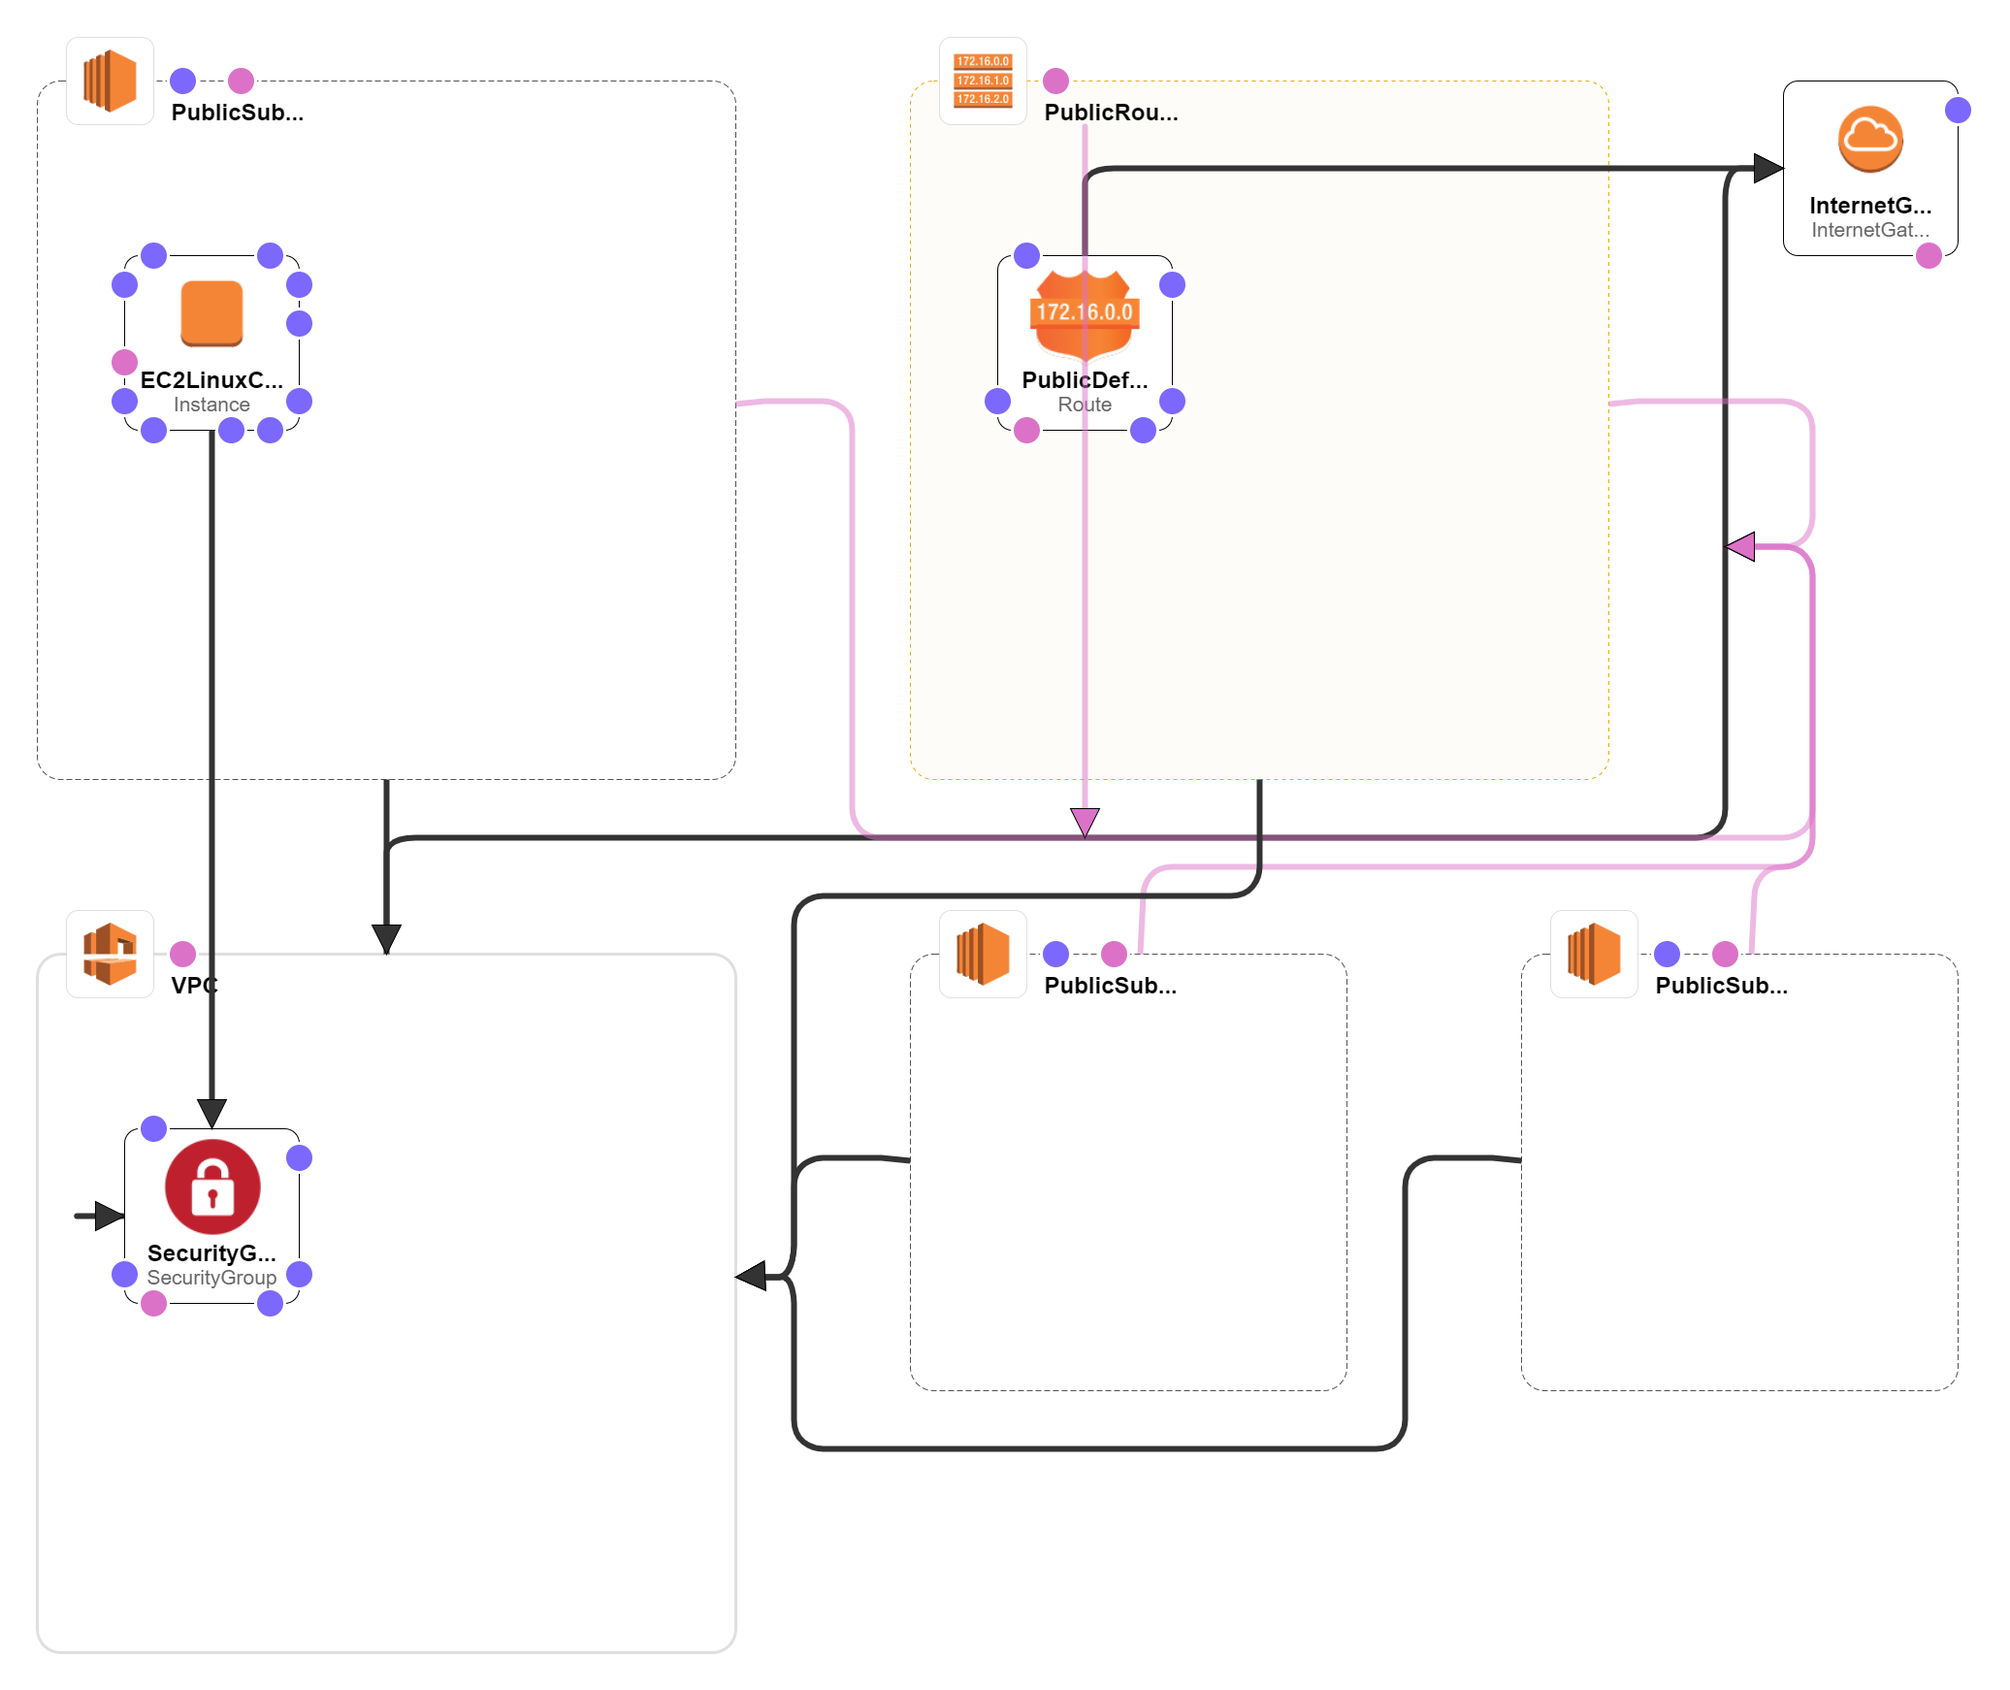
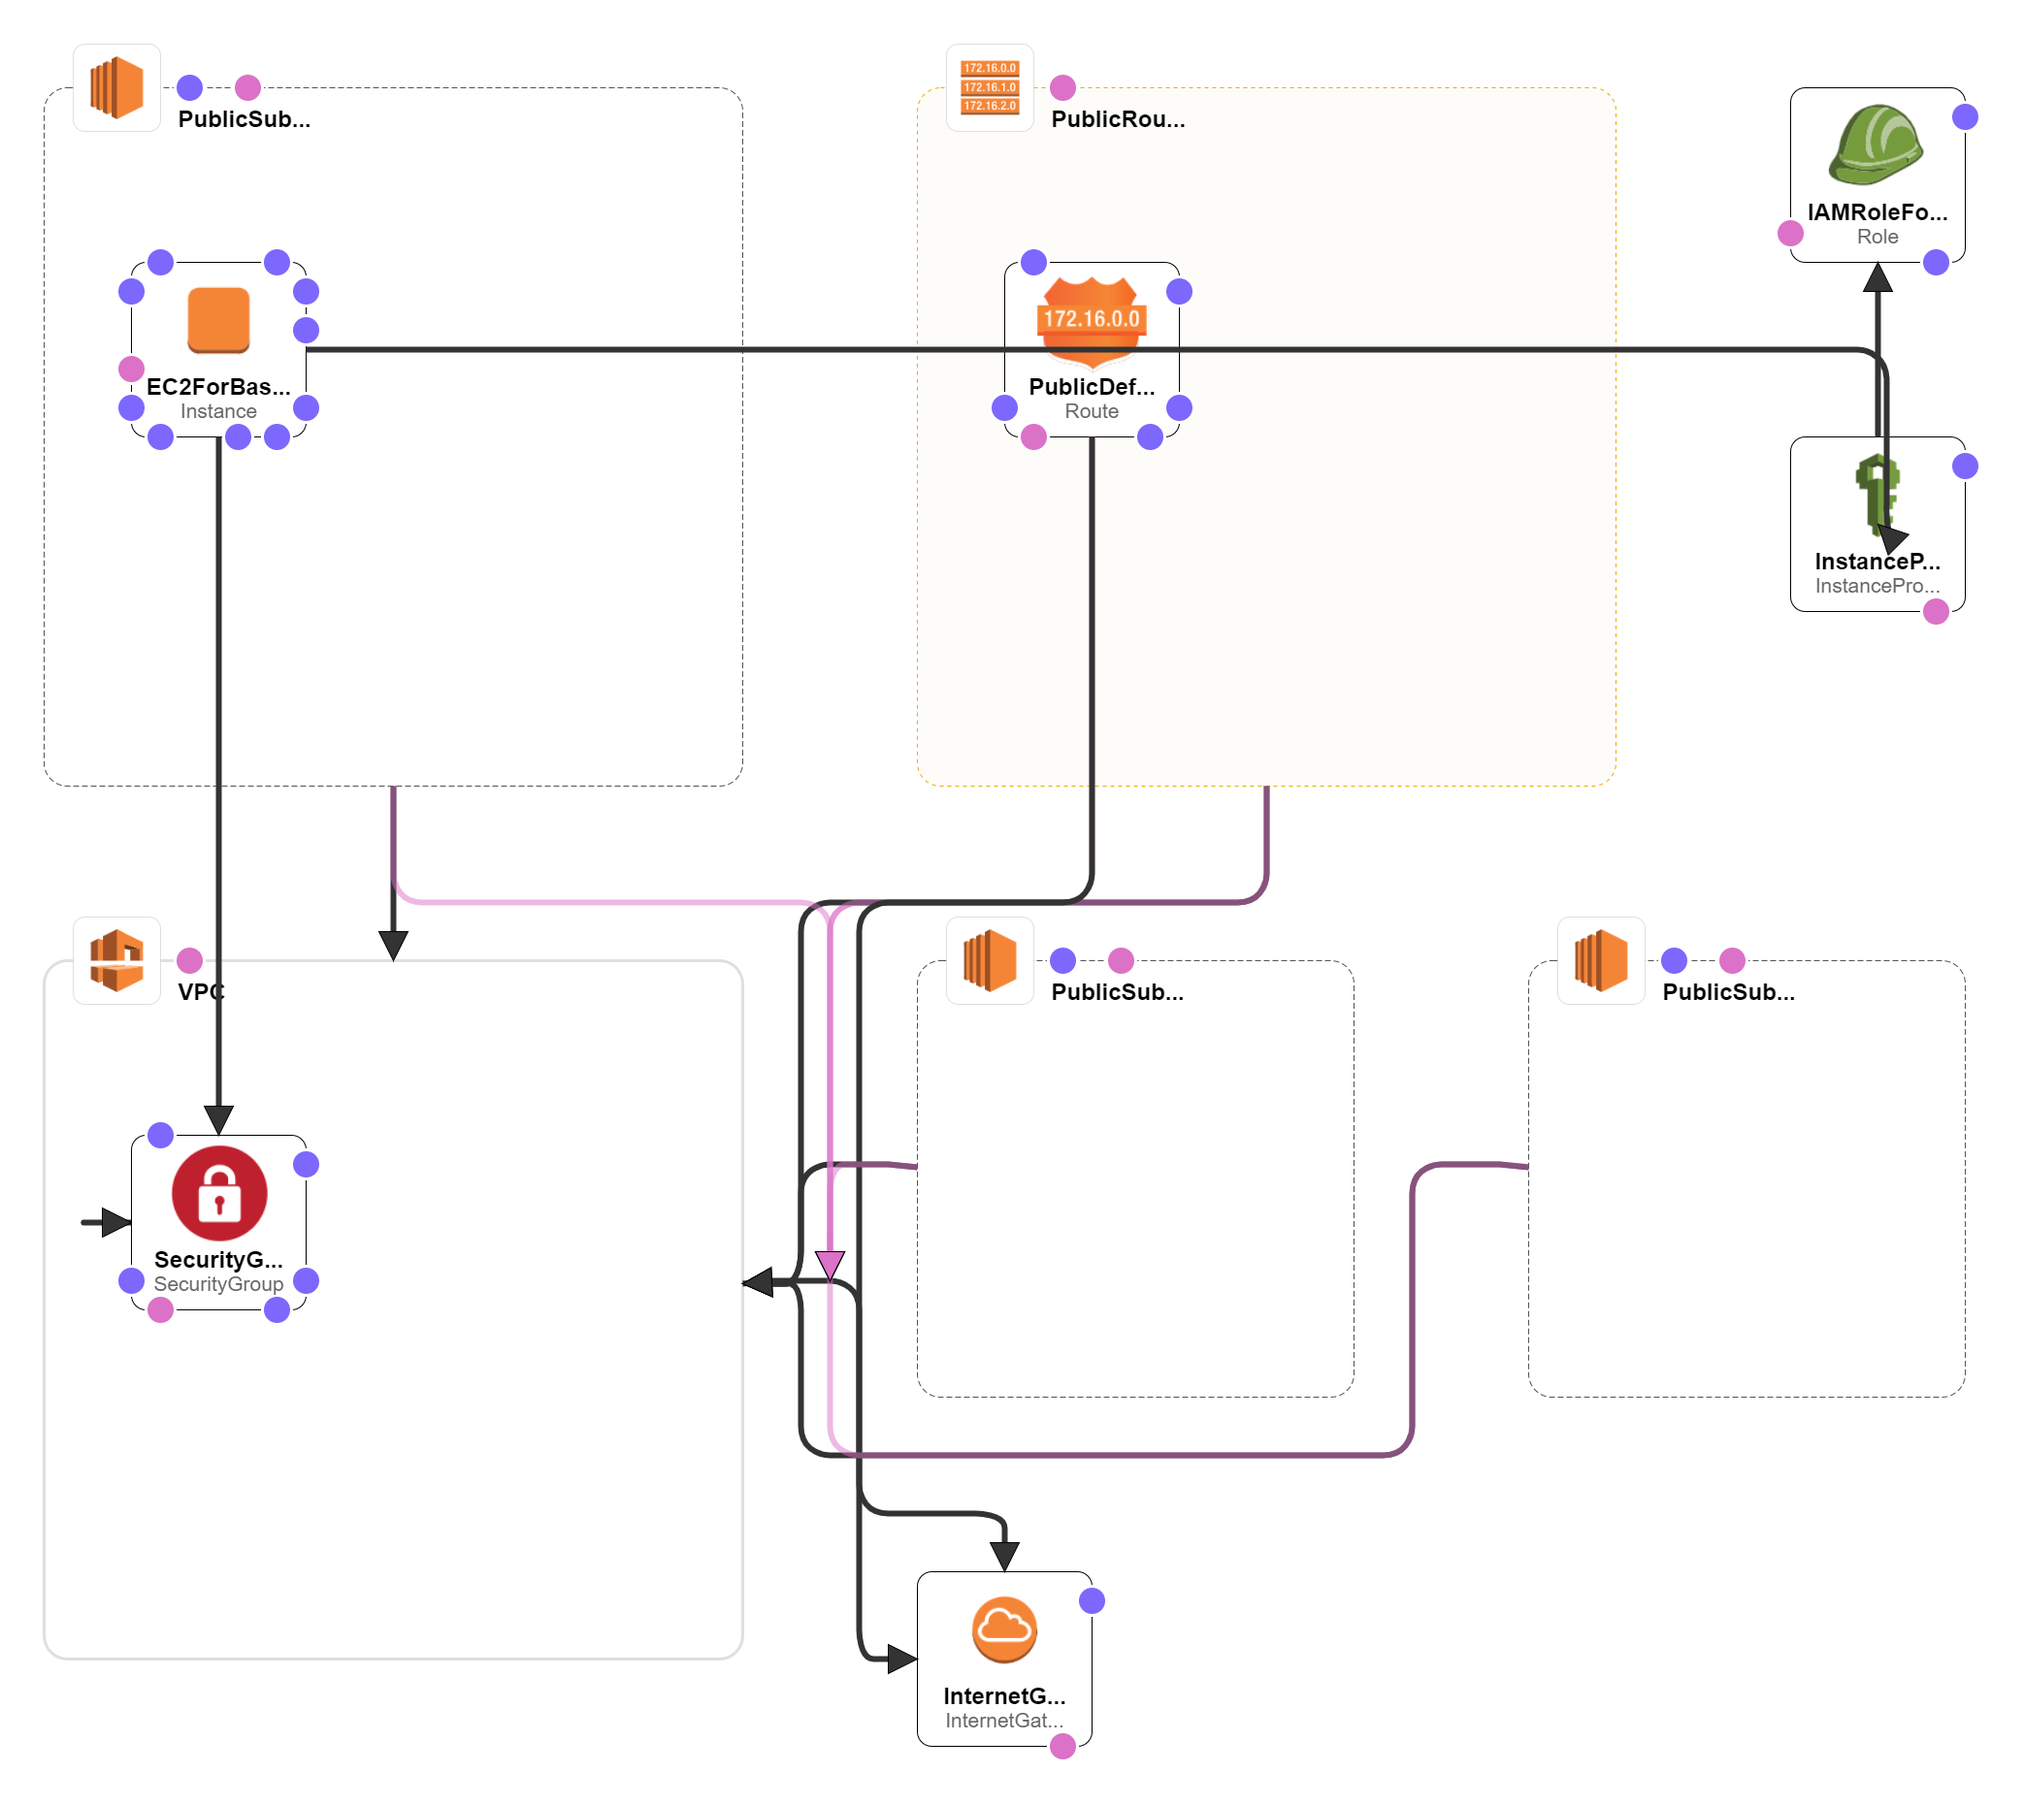
update IAM role and typo in 20220407

diff --git a/deploy-vpc-and-bastion/README.md b/deploy-vpc-and-bastion/README.md
@@ -7,13 +7,16 @@
 - **a Route table**, whitch is associated with 3 public subnet and is added a route to a Internet Gateway as the default gateway.
 - **a Security Group for the bastion host**, which allow the following ingresses:
   - from the CIDR IP range (specified by the parameter) to port 22
-- **an EC2 instance for the bastion host**, whitch installed
-  - unzip
-  - jq
-  - wget
-  - helm
-  - kubectl
-  - eksctl
+  - **an IAM role for the bastion host** to whitch the "AdministratorAccess" policy is attached
+  - **an instance profile for the bastion host**
+  - **an EC2 instance** for the bastion host, whitch installed
+    - AWS CLI v2
+    - unzip
+    - jq
+    - wget
+    - helm
+    - kubectl
+    - eksctl
 
 ## Parameters
 - **Name prefix:**

diff --git a/deploy-fsxn-sandbox/README.md b/deploy-fsxn-sandbox/README.md
@@ -10,7 +10,7 @@
 - **a Security Group for FSx for ONTAP**, which allow the following ingresses from the bastion host:
   - https://docs.aws.amazon.com/fsx/latest/ONTAPGuide/limit-access-security-groups.html
 - **an IAM role for the bastion host** to whitch the "AdministratorAccess" policy is attached
-- **an instance profile for the bation host**
+- **an instance profile for the bastion host**
 - **an EC2 instance** for the bastion host, whitch installed
   - AWS CLI v2
   - unzip
